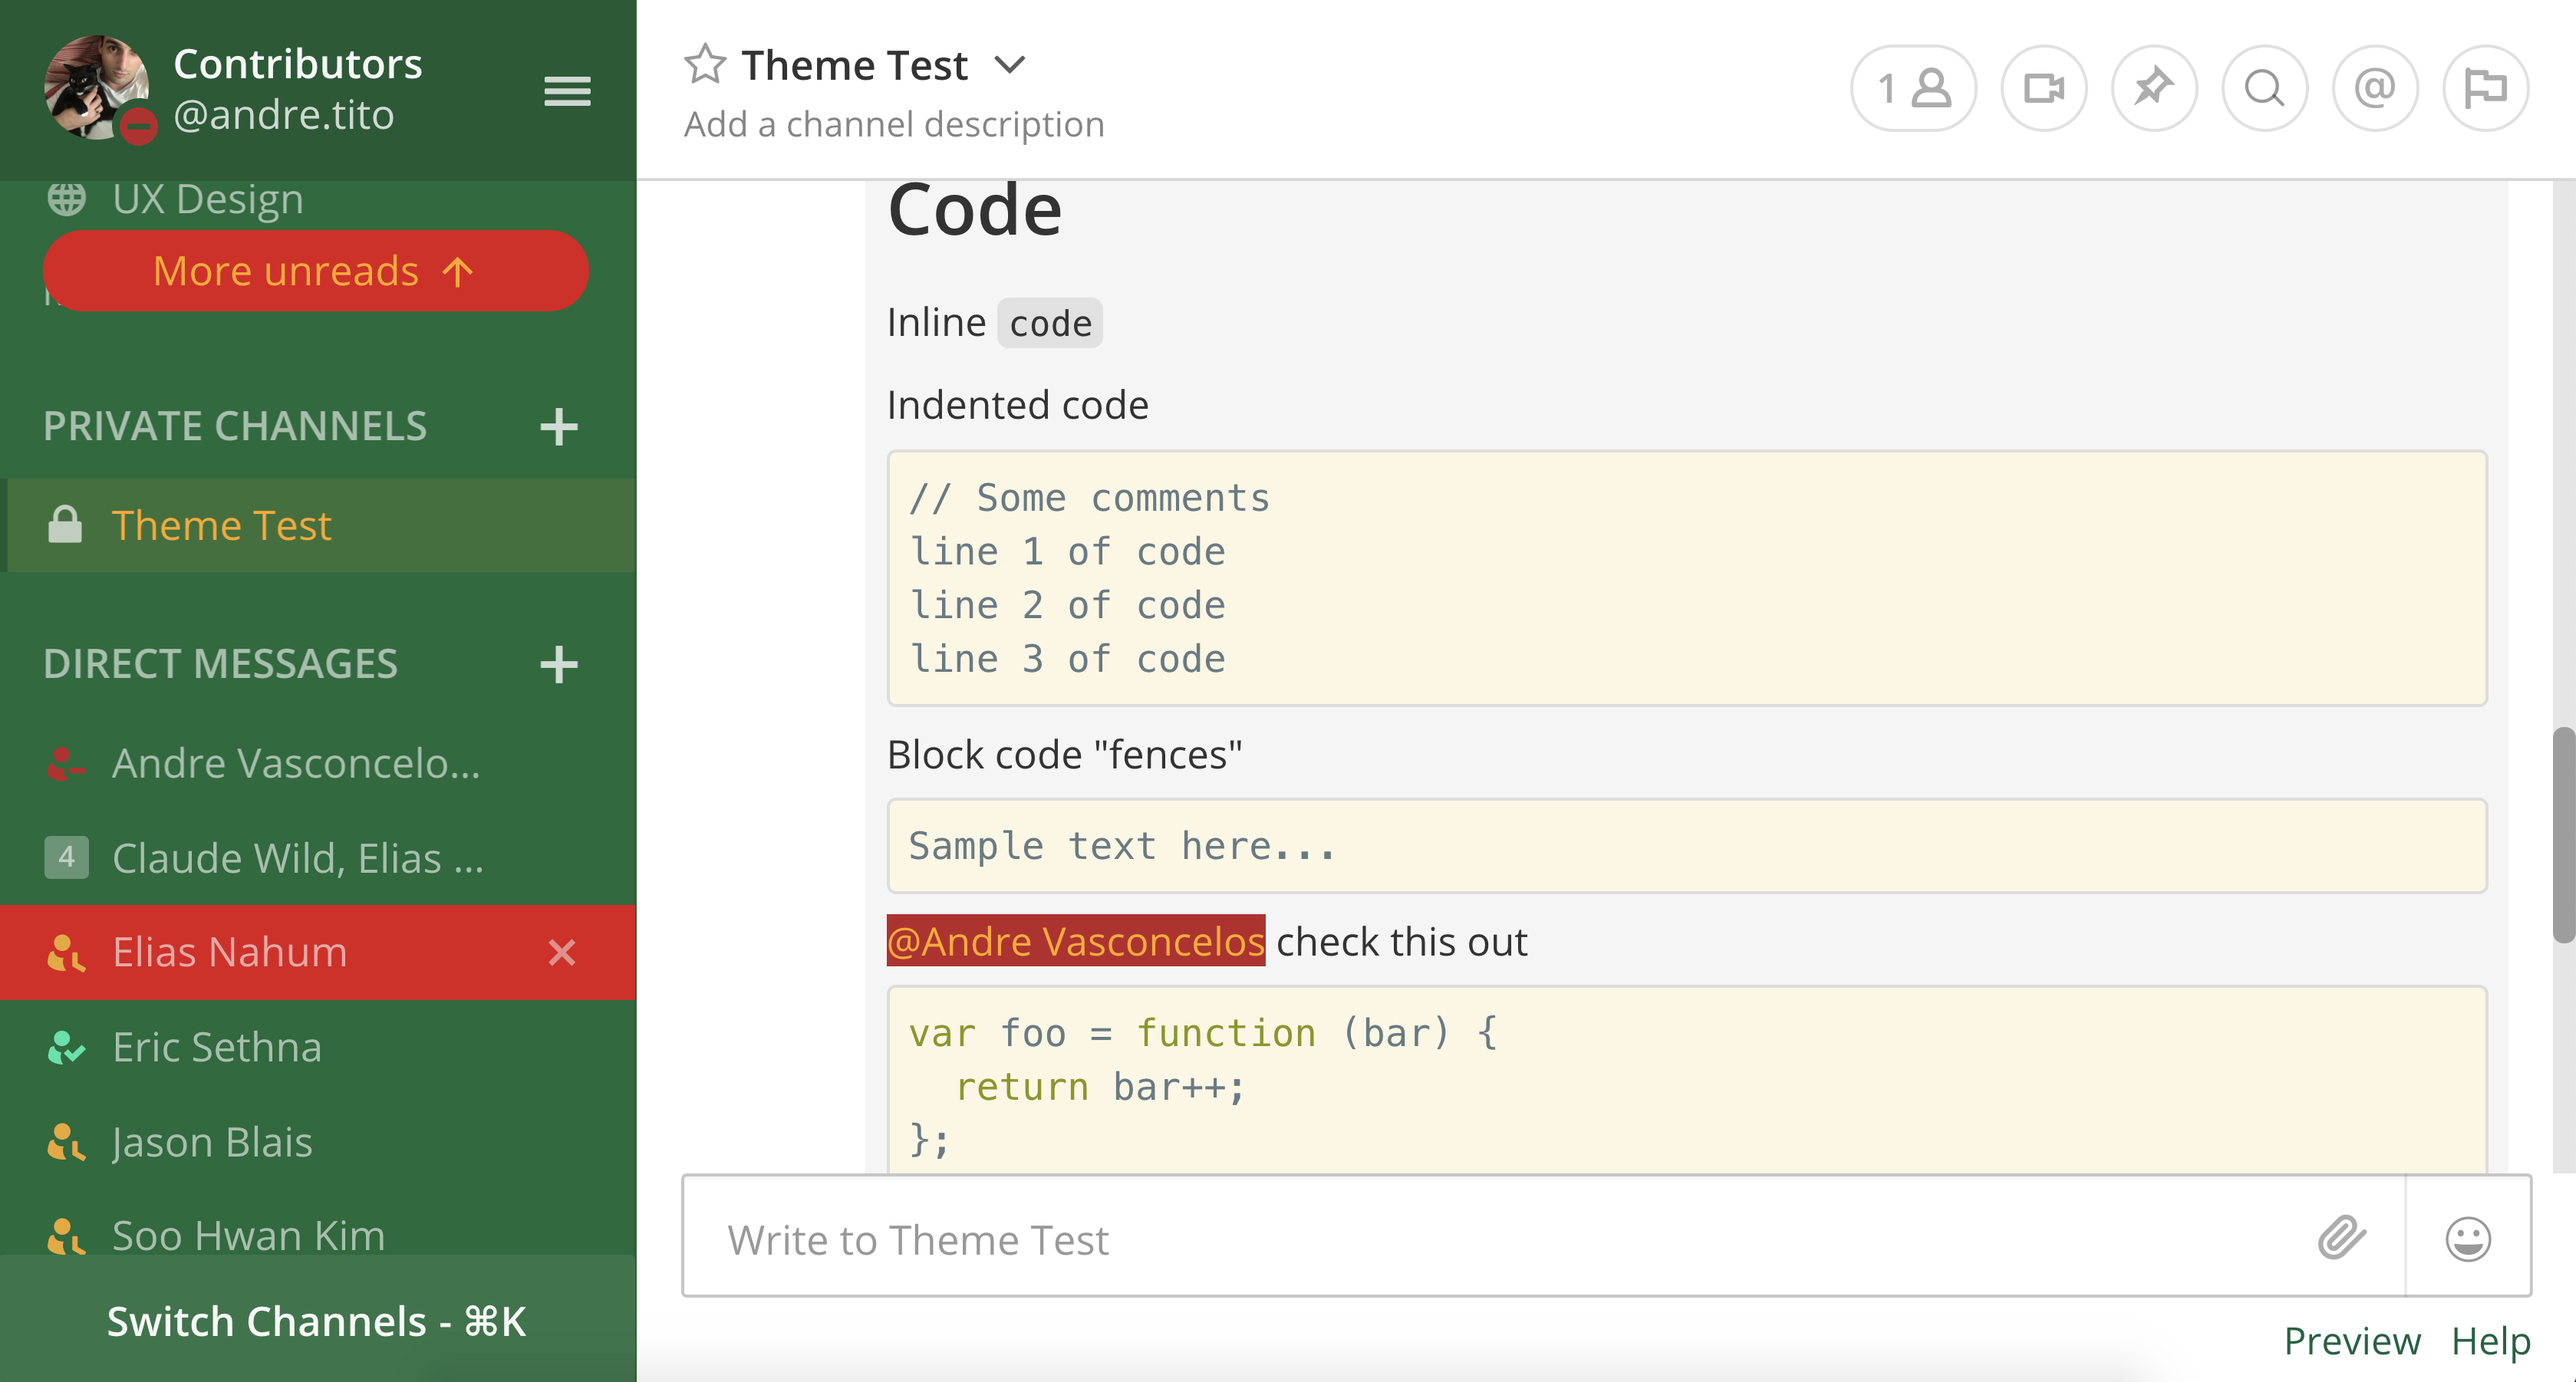
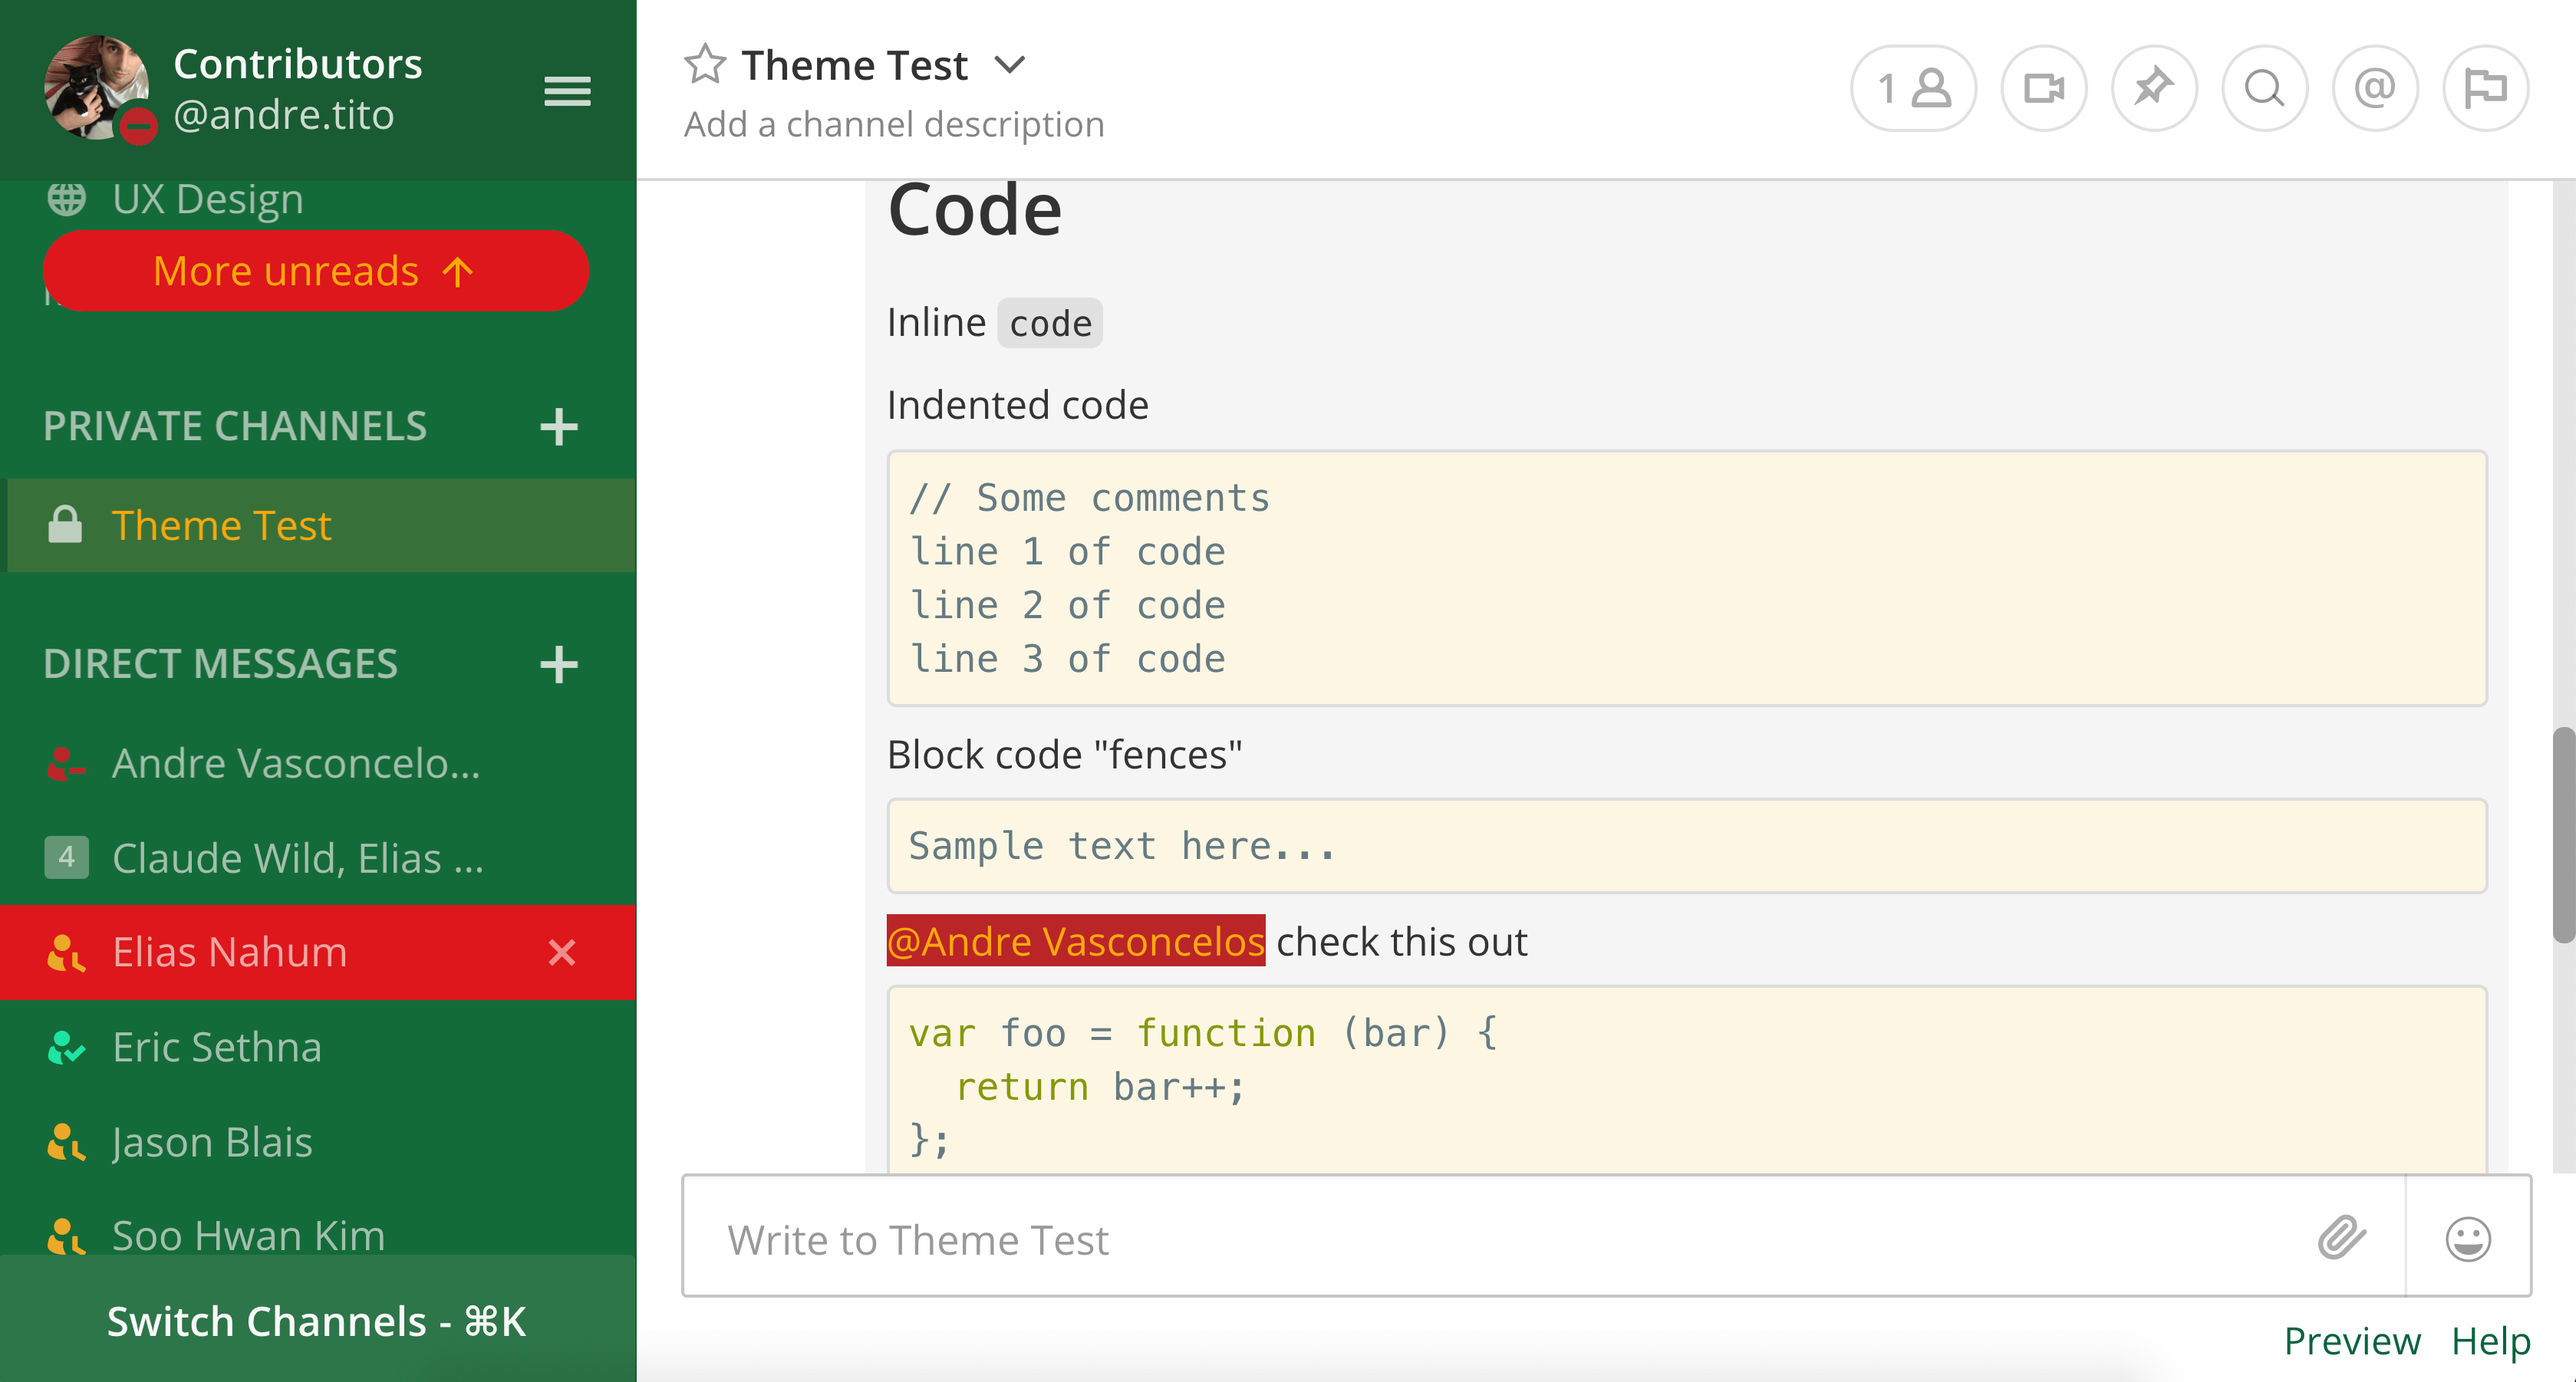
Compressing all images to improve perf

diff --git a/src/themes/spotify.js b/src/themes/spotify.js
@@ -2,5 +2,5 @@ export default {
     name: 'Spotify',
     thumbnailUrl: 'spotify.png',
     type: 'dark',
-    theme: {sidebarBg: '#121212', sidebarText: '#ffffff', sidebarUnreadText: '#ffffff', sidebarTextHoverBg: '#282828', sidebarTextActiveBorder: '#1bba56', sidebarTextActiveColor: '#1bba56', sidebarHeaderBg: '#121212', sidebarHeaderTextColor: '#ffffff', onlineIndicator: '#1bba56', awayIndicator: '#e0b333', dndIndicator: '#f74343', mentionBj: '#1bba56', mentionColor: '#ffffff', centerChannelBg: '#181818', centerChannelColor: '#9d9d9d', newMessageSeparator: '#1bba56', linkColor: '#1bba56', buttonBg: '#1bba56', buttonColor: '#ffffff', errorTextColor: '#fd5960', mentionHighlightBg: '#1bba56', mentionHighlightLink: '#ffffff', codeTheme: 'solarized-dark', mentionBg: '#1bba56'},
+    theme: {sidebarBg: '#121212', sidebarText: '#ffffff', sidebarUnreadText: '#ffffff', sidebarTextHoverBg: '#282828', sidebarTextActiveBorder: '#1bba56', sidebarTextActiveColor: '#1bba56', sidebarHeaderBg: '#121212', sidebarHeaderTextColor: '#ffffff', onlineIndicator: '#1bba56', awayIndicator: '#e0b333', dndIndicator: '#f74343', mentionBj: '#1bba56', mentionColor: '#ffffff', centerChannelBg: '#181818', centerChannelColor: '#9d9d9d', newMessageSeparator: '#1bba56', linkColor: '#1bba56', buttonBg: '#1bba56', buttonColor: '#ffffff', errorTextColor: '#fd5960', mentionHighlightBg: '#1bba56', mentionHighlightLink: '#ffffff', codeTheme: 'monokai', mentionBg: '#1bba56'},
 };

diff --git a/public/index.html b/public/index.html
@@ -17,6 +17,7 @@
         font-family: Metropolis;
         font-display: auto;
         src: url(fonts/Metropolis-Regular.otf);
+        font-display: swap;
       }
 
 
@@ -25,6 +26,7 @@
         font-weight: bold;
         font-display: auto;
         src: url(fonts/Metropolis-Bold.otf);
+        font-display: swap;
       }
 
       @font-face {
@@ -32,6 +34,7 @@
         font-weight: 500;
         font-display: auto;
         src: url(fonts/Metropolis-SemiBold.otf);
+        font-display: swap;
       }
 
       html, body {
